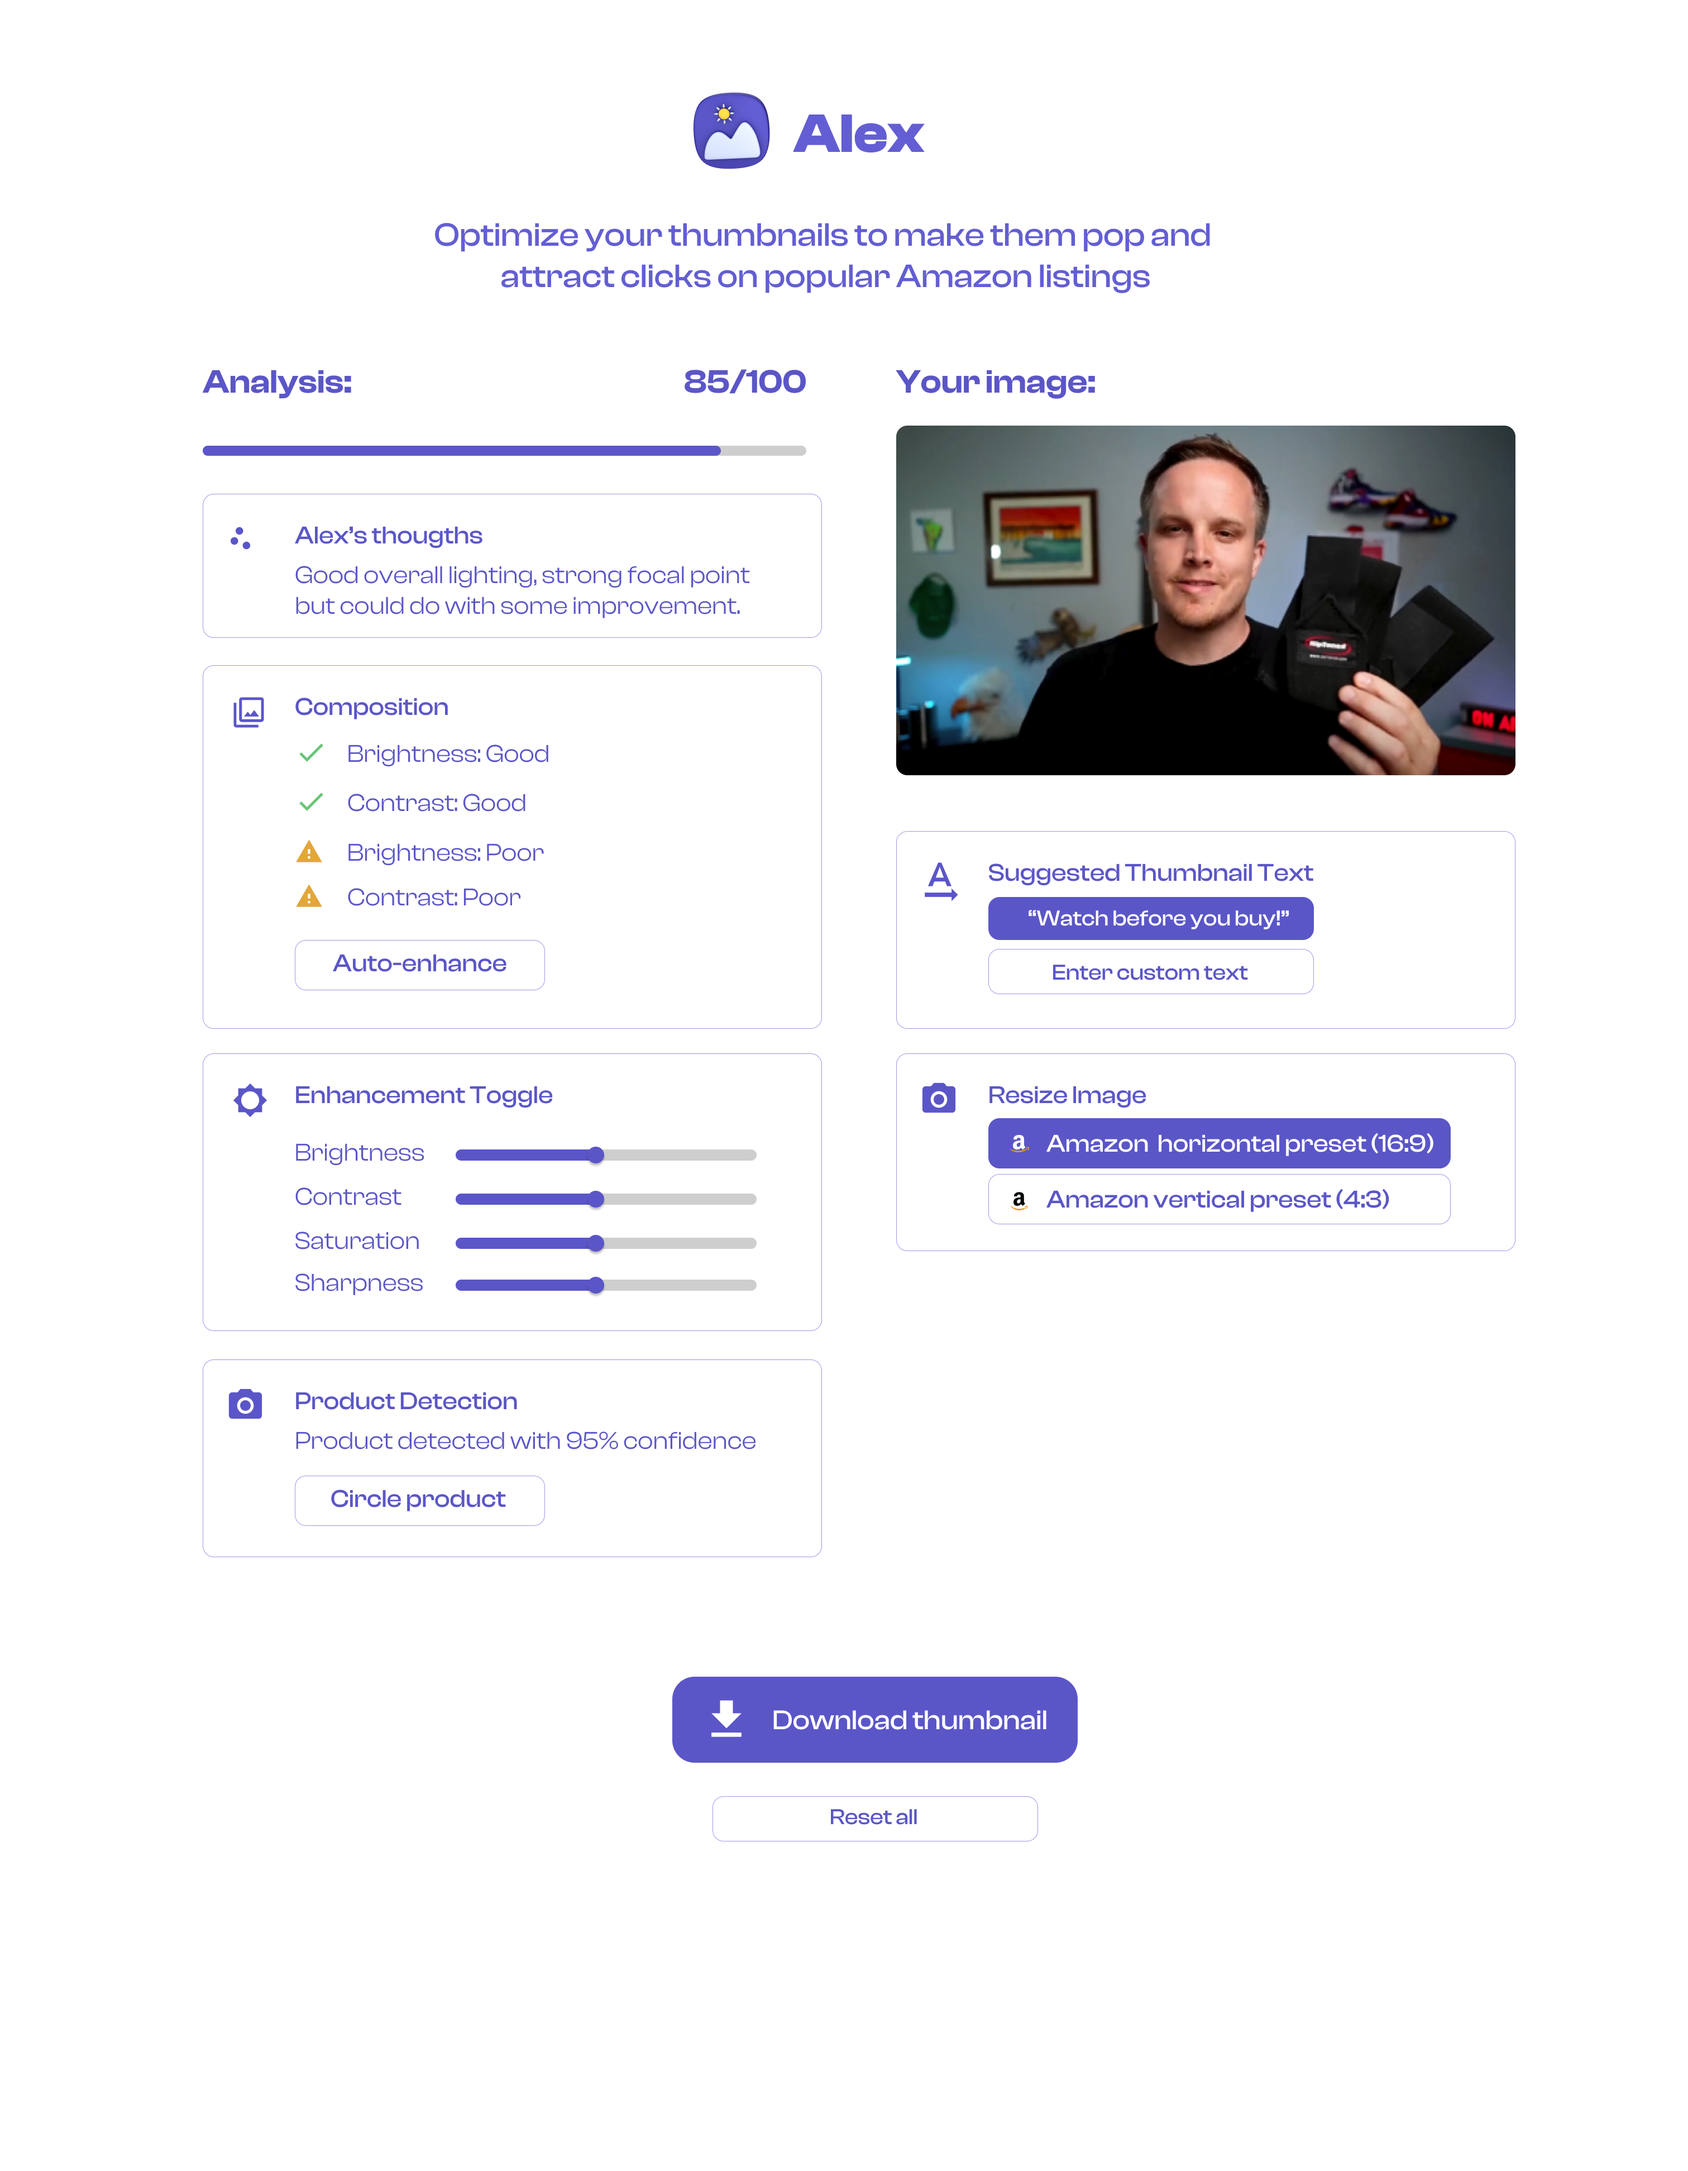
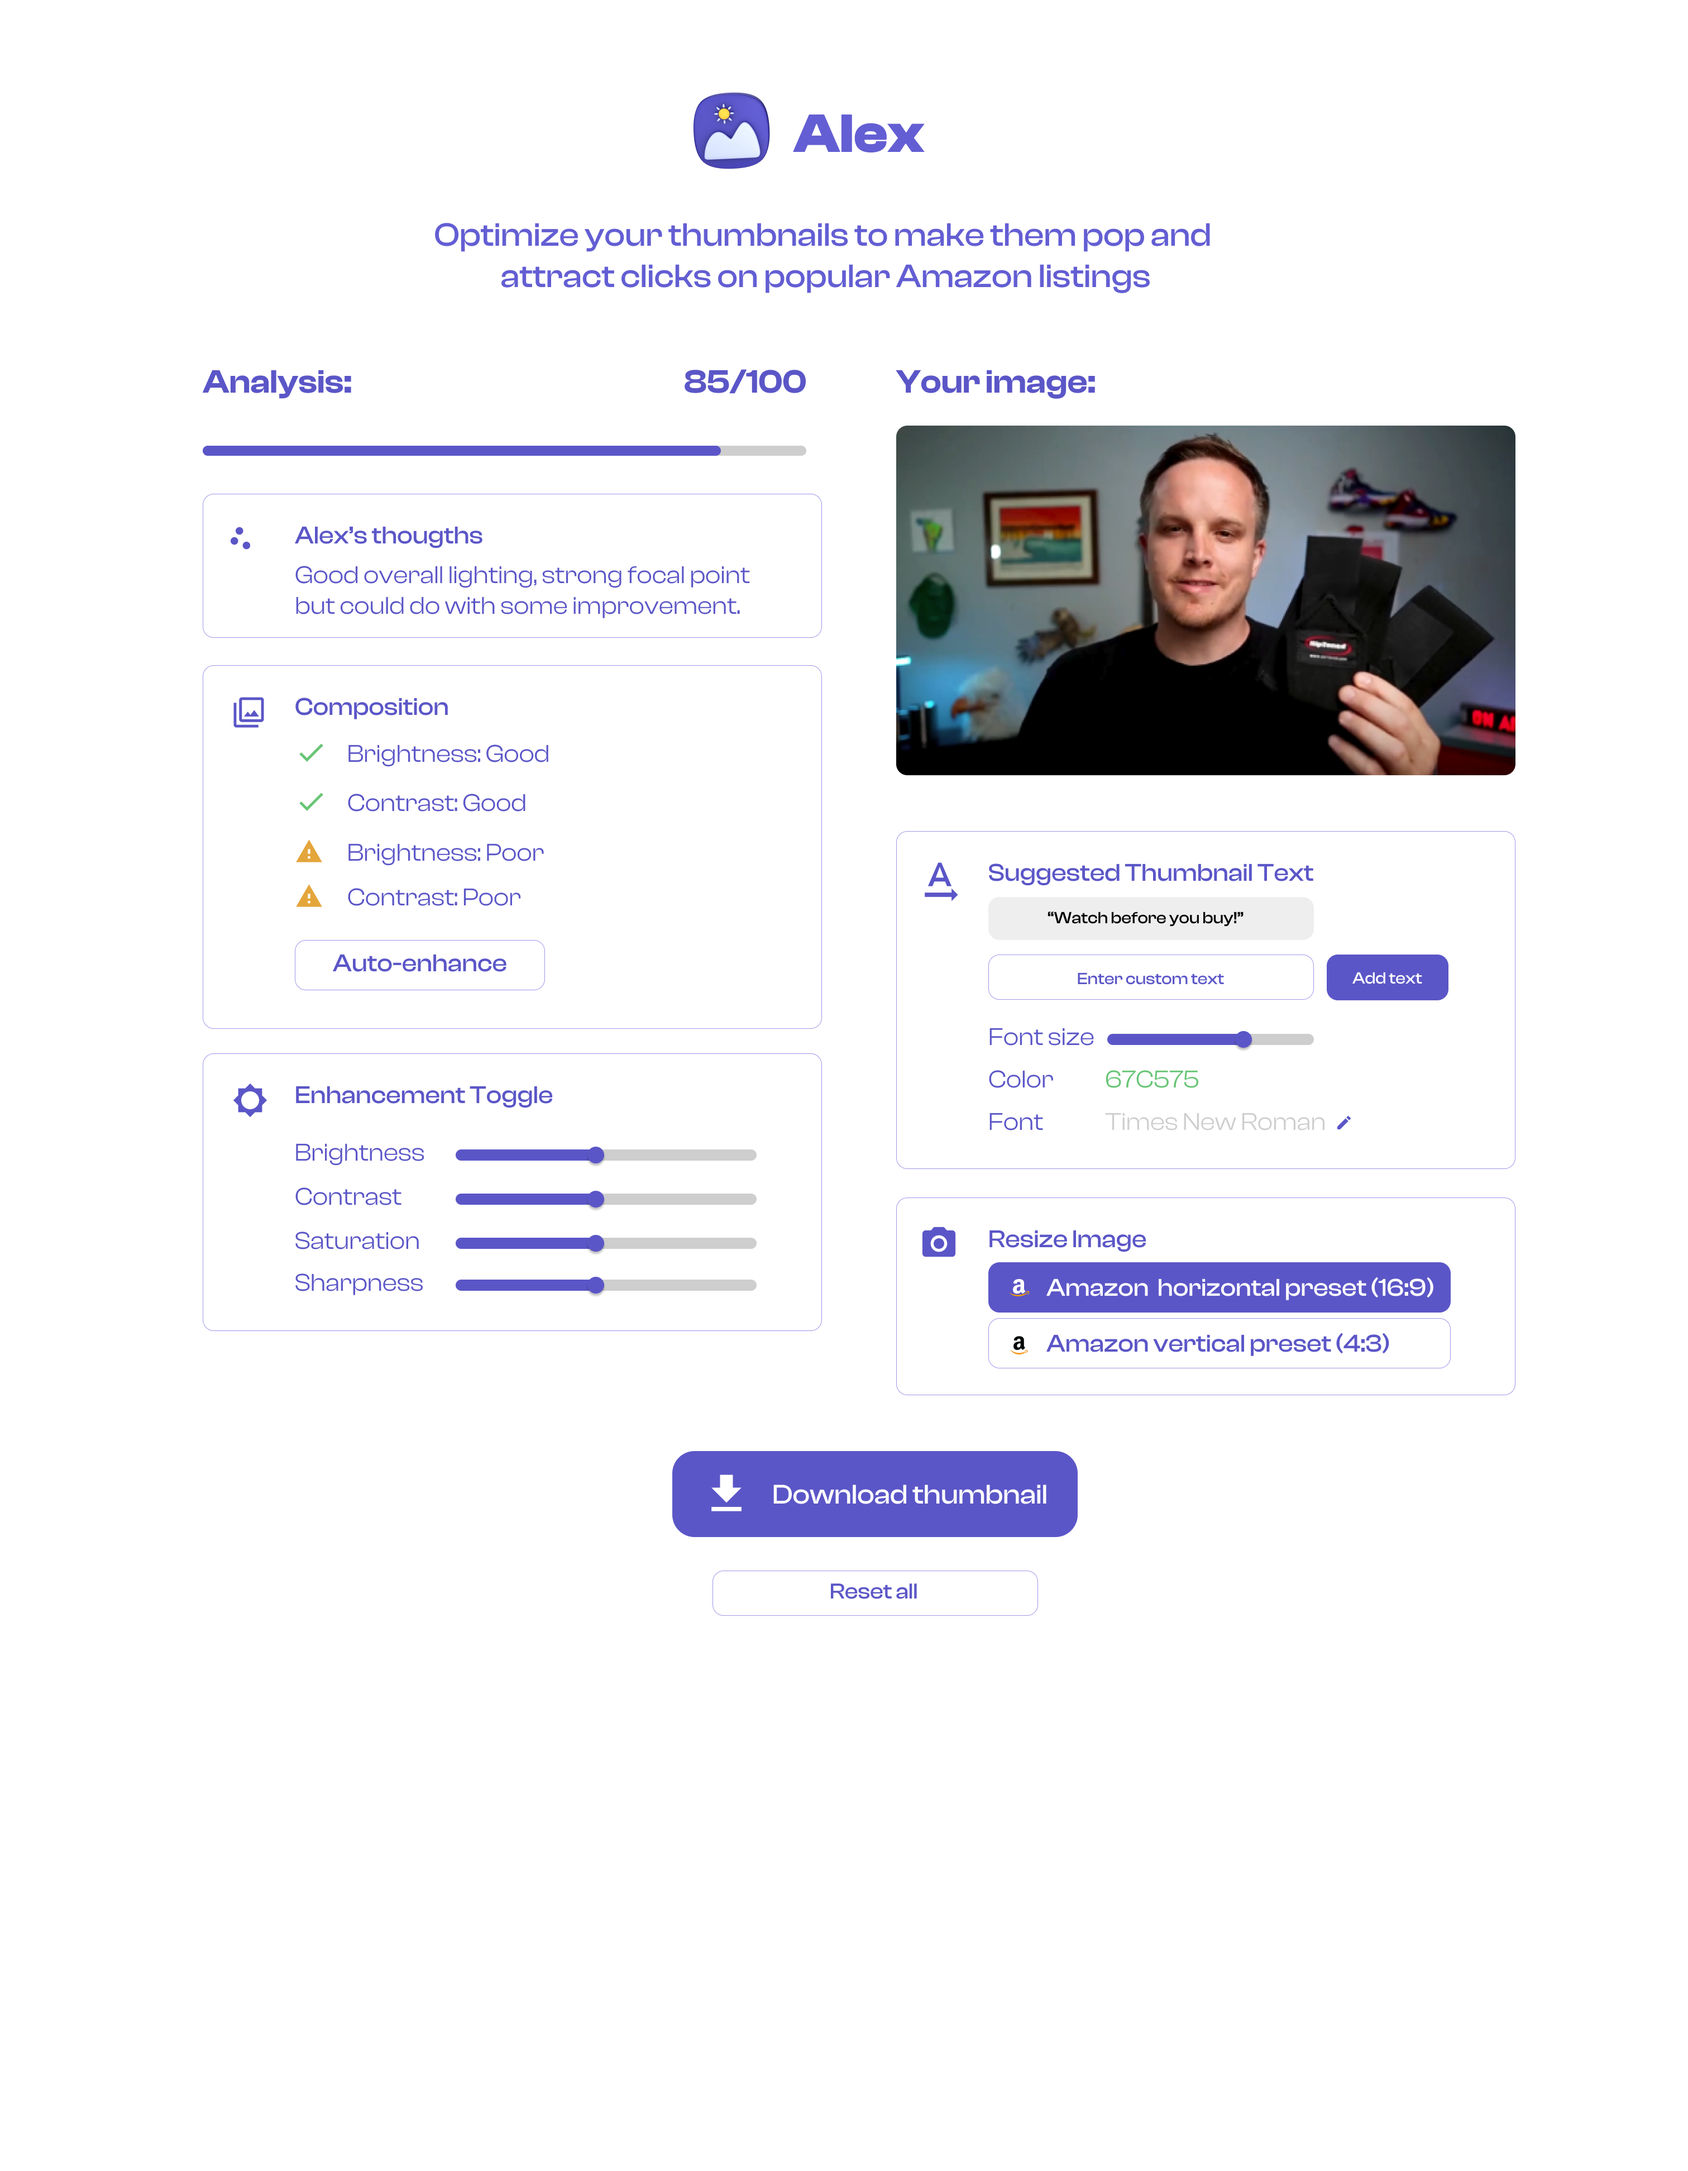
added text controls

diff --git a/public/editor.js b/public/editor.js
@@ -1,10 +1,15 @@
 document.addEventListener('DOMContentLoaded', () => {
     // Initialize DOM elements
     const canvas = document.getElementById('imageCanvas');
-    const ctx = canvas.getContext('2d', { willReadFrequently: true }); // Optimize for read operations
+    const ctx = canvas.getContext('2d', { willReadFrequently: true });
     const loadingOverlay = document.getElementById('loadingOverlay');
     const autoEnhanceBtn = document.querySelector('.auto-enhance-btn');
     const resetBtn = document.querySelector('.reset-btn');
+    const customTextInput = document.getElementById('customTextInput');
+    const fontSelect = document.getElementById('fontSelect');
+    const colorPicker = document.getElementById('colorPicker');
+    const textSizeSlider = document.getElementById('textSize');
+    const addTextBtn = document.querySelector('.add-text-btn');
 
     // Initialize state
     let originalImage = null; // Store the original image
@@ -14,6 +19,10 @@ document.addEventListener('DOMContentLoaded', () => {
         saturation: 0,
         sharpness: 0
     };
+    let textOverlay = null; // Store a single text overlay
+    let isDraggingText = false; // Track dragging state
+    let dragOffsetX = 0; // Offset for dragging
+    let dragOffsetY = 0; // Offset for dragging
 
     // Load stored data
     const imageData = sessionStorage.getItem('uploadedImage');
@@ -88,6 +97,7 @@ document.addEventListener('DOMContentLoaded', () => {
             ctx.drawImage(originalImage, 0, 0);
             console.log('Image loaded successfully');
             initializeSliders(); // Initialize slider listeners after image loads
+            drawTextOverlay(); // Draw any existing text overlay
         };
         originalImage.onerror = () => {
             hideLoading();
@@ -244,30 +254,151 @@ document.addEventListener('DOMContentLoaded', () => {
             if (adjustments.sharpness !== 0) {
                 applySharpness();
             }
+
+            // Draw text overlay
+            drawTextOverlay(); // Ensure this function is called correctly
         });
     }
 
-    function applySharpness() {
-        const imageData = ctx.getImageData(0, 0, canvas.width, canvas.height);
-        const data = imageData.data;
-        const factor = adjustments.sharpness / 100;
+    // Draw text overlay
+    function drawTextOverlay() {
+        if (textOverlay) {
+            ctx.font = `${textOverlay.size}px ${textOverlay.font}`;
+            ctx.fillStyle = textOverlay.color;
+            ctx.textAlign = 'center'; // Center text horizontally
+            ctx.textBaseline = 'middle'; // Center text vertically
 
-        // Simple sharpening algorithm
-        for (let i = 0; i < data.length; i += 4) {
-            if (i % (canvas.width * 4) === 0) continue; // Skip first pixel of each row
-            if (i < canvas.width * 4) continue; // Skip first row
-            
-            for (let j = 0; j < 3; j++) {
-                const current = data[i + j];
-                const above = data[i - canvas.width * 4 + j];
-                const left = data[i - 4 + j];
+            // Draw the text
+            ctx.fillText(textOverlay.text, textOverlay.x, textOverlay.y);
+        }
+    }
+
+    // Add text overlay functionality
+    addTextBtn.addEventListener('click', () => {
+        const text = customTextInput.value;
+        const font = fontSelect.value;
+        const color = colorPicker.value;
+        const size = parseInt(textSizeSlider.value);
+
+        if (text) {
+            // Replace existing text overlay
+            textOverlay = { // Store the new text overlay
+                text: text,
+                font: font,
+                color: color,
+                size: size,
+                x: canvas.width / 2, // Centered by default
+                y: canvas.height / 2  // Centered by default
+            };
+            applyAdjustments(); // Use this instead of drawTextOverlay()
+            console.log('Added text overlay:', textOverlay);
+        }
+    });
+
+    // Initialize text controls with real-time updates
+    function initializeTextControls() {
+        // Font selection - real-time update
+        fontSelect.addEventListener('change', () => {
+            if (textOverlay) {
+                textOverlay.font = fontSelect.value;
+                applyAdjustments(); // This will redraw everything including text
+                console.log('Font updated:', textOverlay.font);
+            }
+        });
+
+        // Color picker - real-time update
+        colorPicker.addEventListener('input', () => {
+            if (textOverlay) {
+                textOverlay.color = colorPicker.value;
+                applyAdjustments();
+                console.log('Color updated:', textOverlay.color);
+            }
+        });
+
+        // Size slider - real-time update
+        textSizeSlider.addEventListener('input', () => {
+            if (textOverlay) {
+                textOverlay.size = parseInt(textSizeSlider.value);
+                applyAdjustments();
+                console.log('Size updated:', textOverlay.size);
+            }
+        });
+    }
+
+    // Add mouse event listeners for text dragging
+    canvas.addEventListener('mousemove', (e) => {
+        const rect = canvas.getBoundingClientRect();
+        const x = e.clientX - rect.left;
+        const y = e.clientY - rect.top;
+
+        if (textOverlay) {
+            // Check if mouse is over text
+            ctx.font = `${textOverlay.size}px ${textOverlay.font}`;
+            const textWidth = ctx.measureText(textOverlay.text).width;
+            const textHeight = parseInt(textOverlay.size); // Approximate height
+
+            // Define text bounds
+            const textBounds = {
+                left: textOverlay.x - textWidth / 2,
+                right: textOverlay.x + textWidth / 2,
+                top: textOverlay.y - textHeight / 2,
+                bottom: textOverlay.y + textHeight / 2
+            };
+
+            // Check if mouse is over text
+            if (x >= textBounds.left && x <= textBounds.right && 
+                y >= textBounds.top && y <= textBounds.bottom) {
+                canvas.style.cursor = 'move';
                 
-                data[i + j] = current + (2 * current - above - left) * factor;
+                if (isDraggingText) {
+                    requestAnimationFrame(() => {
+                        textOverlay.x = x; // Corrected
+                        textOverlay.y = y; // Corrected
+                        applyAdjustments(); // Redraw everything
+                    });
+                }
+            } else {
+                canvas.style.cursor = 'default';
             }
         }
-        
-        ctx.putImageData(imageData, 0, 0);
-    }
+    });
+
+    canvas.addEventListener('mousedown', (e) => {
+        const rect = canvas.getBoundingClientRect();
+        const x = e.clientX - rect.left;
+        const y = e.clientY - rect.top;
+
+        if (textOverlay) {
+            // Check if click is on text
+            ctx.font = `${textOverlay.size}px ${textOverlay.font}`;
+            const textWidth = ctx.measureText(textOverlay.text).width;
+            const textHeight = parseInt(textOverlay.size);
+
+            // Define text bounds
+            const textBounds = {
+                left: textOverlay.x - textWidth / 2,
+                right: textOverlay.x + textWidth / 2,
+                top: textOverlay.y - textHeight / 2,
+                bottom: textOverlay.y + textHeight / 2
+            };
+
+            if (x >= textBounds.left && x <= textBounds.right && 
+                y >= textBounds.top && y <= textBounds.bottom) {
+                isDraggingText = true;
+                dragOffsetX = textOverlay.x - x;
+                dragOffsetY = textOverlay.y - y;
+            }
+        }
+    });
+
+    canvas.addEventListener('mouseup', () => {
+        isDraggingText = false;
+    });
+
+    canvas.addEventListener('mouseleave', () => {
+        isDraggingText = false;
+        canvas.style.cursor = 'default';
+    });
 
     // Reset functionality
     resetBtn.addEventListener('click', () => {
@@ -295,5 +426,12 @@ document.addEventListener('DOMContentLoaded', () => {
             ctx.clearRect(0, 0, canvas.width, canvas.height);
             ctx.drawImage(originalImage, 0, 0);
         }
+
+        // Reset text overlay
+        textOverlay = null;
+        console.log('Reset text overlay');
     });
+
+    // Initialize text controls
+    initializeTextControls();
 });

diff --git a/public/editor.html b/public/editor.html
@@ -25,7 +25,6 @@
                     </div>
                 </div>
                 
-                <!-- New Container for Alex's Thoughts -->
                 <div class="thoughts-container">
                     <h3>
                         <img src="/components/thoughts.svg" alt="Thoughts Icon" class="thoughts-icon">
@@ -40,17 +39,15 @@
                         Composition
                     </h3>
                     <ul>
-                        <li class="good">Photo clarity: good</li>
-                        <li class="good">Focal Point: strong</li>
-                        <li class="warning">Brightness: slightly dark</li>
-                        <li class="warning">Contrast: slightly low</li>
-                        <li class="warning">Saturation: slightly low</li>
-                        <li class="warning">Sharpness: slightly blurry</li>
+                        <li class="good">Brightness: Not analyzed</li>
+                        <li class="good">Contrast: Not analyzed</li>
+                        <li class="warning">Saturation: Not analyzed</li>
+                        <li class="warning">Sharpness: Not analyzed</li>
                     </ul>
                     <button class="btn auto-enhance-btn">
                         <img src="/components/auto-enhance.svg" alt="Auto-enhance Icon" class="btn-icon">
                         Auto-enhance
-                    </button> <!-- Added Auto-enhance button with icon -->
+                    </button>
                 </div>
 
                 <div class="section-container enhancement-toggle">
@@ -94,7 +91,23 @@
                 <div class="section-container suggested-text">
                     <h3>Suggested Thumbnail Text</h3>
                     <button class="btn suggested-text-btn">"Watch before you buy!"</button>
-                    <input type="text" placeholder="Enter custom text" class="custom-text-input">
+                    <input type="text" placeholder="Enter custom text" class="custom-text-input" id="customTextInput">
+                    <button class="btn add-text-btn">Add</button> <!-- Add button for text overlay -->
+                </div>
+                <div class="section-container text-controls">
+                    <h3>Text Controls</h3>
+                    <label for="fontSelect">Font:</label>
+                    <select id="fontSelect">
+                        <option value="Arial">Arial</option>
+                        <option value="Verdana">Verdana</option>
+                        <option value="Times New Roman">Times New Roman</option>
+                        <option value="Georgia">Georgia</option>
+                        <option value="Courier New">Courier New</option>
+                    </select>
+                    <label for="colorPicker">Color:</label>
+                    <input type="color" id="colorPicker" value="#000000">
+                    <label for="textSize">Size:</label>
+                    <input type="range" id="textSize" min="10" max="100" value="20">
                 </div>
                 <div class="section-container resize-options">
                     <h3>Resize Image</h3>
